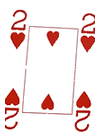
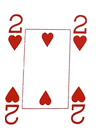
Straighten K♠/2♥/Q♠ cards, add PPL export to benBridge
Card images: re-extracted and deskewed K♠ (-0.74°), 2♥ (2.60°), Q♠ (3.29°)

PPL export: game_logger now writes Bridge Baron .ppl binary alongside
BDL and PBN after each hand (774-byte format with hand bitmasks and
play permutation). afterGameReport patterns already include *.ppl.

Changed region(s): [[0.03, 0.0571, 0.96, 0.9429]]

diff --git a/FRI/benBridge/ben_bridge/ui/game_logger.py b/FRI/benBridge/ben_bridge/ui/game_logger.py
@@ -335,8 +335,9 @@ Scoring      :  Team (IMP)
         with open(self.current_log_file, 'a') as f:
             f.write("\n".join(entry_lines))
 
-        # Also save in PBN format
+        # Also save in PBN and PPL formats
         self._save_pbn_alongside(board, original_hands)
+        self._save_ppl_alongside(board, original_hands)
 
         print(f"Hand logged to {self.current_log_file}")
 
@@ -692,3 +693,64 @@ fi
         # Append to PBN file (one file can hold multiple boards)
         with open(pbn_file, 'a') as f:
             f.write("\n".join(lines) + "\n")
+
+    def _save_ppl_alongside(self, board: BoardState, original_hands: dict = None):
+        """Save the hand in Bridge Baron PPL binary format (774 bytes per deal).
+
+        PPL layout: hand bitmasks at 0x30 (4 players × 4 suits × 2 bytes LE,
+        bit 0=rank '2', bit 12='A', suit order C/D/H/S, player order N/E/S/W),
+        play permutation at 0x78 (card ID = suit_idx*13 + rank_idx).
+        """
+        import struct
+        ppl_file = self.current_log_file.with_suffix('.ppl')
+        hands = original_hands if original_hands else board.hands
+
+        BB12_SUITS = {Suit.CLUBS: 0, Suit.DIAMONDS: 1, Suit.HEARTS: 2, Suit.SPADES: 3}
+        BB12_RANKS = {
+            Rank.TWO: 0, Rank.THREE: 1, Rank.FOUR: 2, Rank.FIVE: 3,
+            Rank.SIX: 4, Rank.SEVEN: 5, Rank.EIGHT: 6, Rank.NINE: 7,
+            Rank.TEN: 8, Rank.JACK: 9, Rank.QUEEN: 10, Rank.KING: 11, Rank.ACE: 12
+        }
+        SEAT_ORDER = [Seat.NORTH, Seat.EAST, Seat.SOUTH, Seat.WEST]
+
+        try:
+            buf = bytearray(774)
+            buf[0] = 0x01; buf[1] = 0x04
+
+            name = f"Board {board.board_number}"[:9]
+            buf[0x02:0x02 + len(name)] = name.encode('ascii')
+            desc = "BenBridge"[:35]
+            buf[0x0C:0x0C + len(desc)] = desc.encode('ascii')
+
+            # Hand bitmasks
+            for pi, seat in enumerate(SEAT_ORDER):
+                hand = hands.get(seat)
+                if not hand:
+                    continue
+                for card in hand.cards:
+                    si = BB12_SUITS.get(card.suit)
+                    ri = BB12_RANKS.get(card.rank)
+                    if si is not None and ri is not None:
+                        offset = 0x30 + (pi * 4 + si) * 2
+                        mask = struct.unpack_from('<H', buf, offset)[0]
+                        mask |= (1 << ri)
+                        struct.pack_into('<H', buf, offset, mask)
+
+            # Play permutation
+            if board.tricks:
+                play_idx = 0
+                for trick in board.tricks:
+                    for card in trick.cards:
+                        si = BB12_SUITS.get(card.suit, 0)
+                        ri = BB12_RANKS.get(card.rank, 0)
+                        buf[0x78 + play_idx] = si * 13 + ri
+                        play_idx += 1
+                        if play_idx >= 52:
+                            break
+                buf[0xAC] = 52
+                buf[0xAD] = 0xFF; buf[0xAE] = 0xFF; buf[0xAF] = 0xFF
+
+            with open(ppl_file, 'wb') as f:
+                f.write(buf)
+        except Exception:
+            pass  # PPL generation is best-effort
